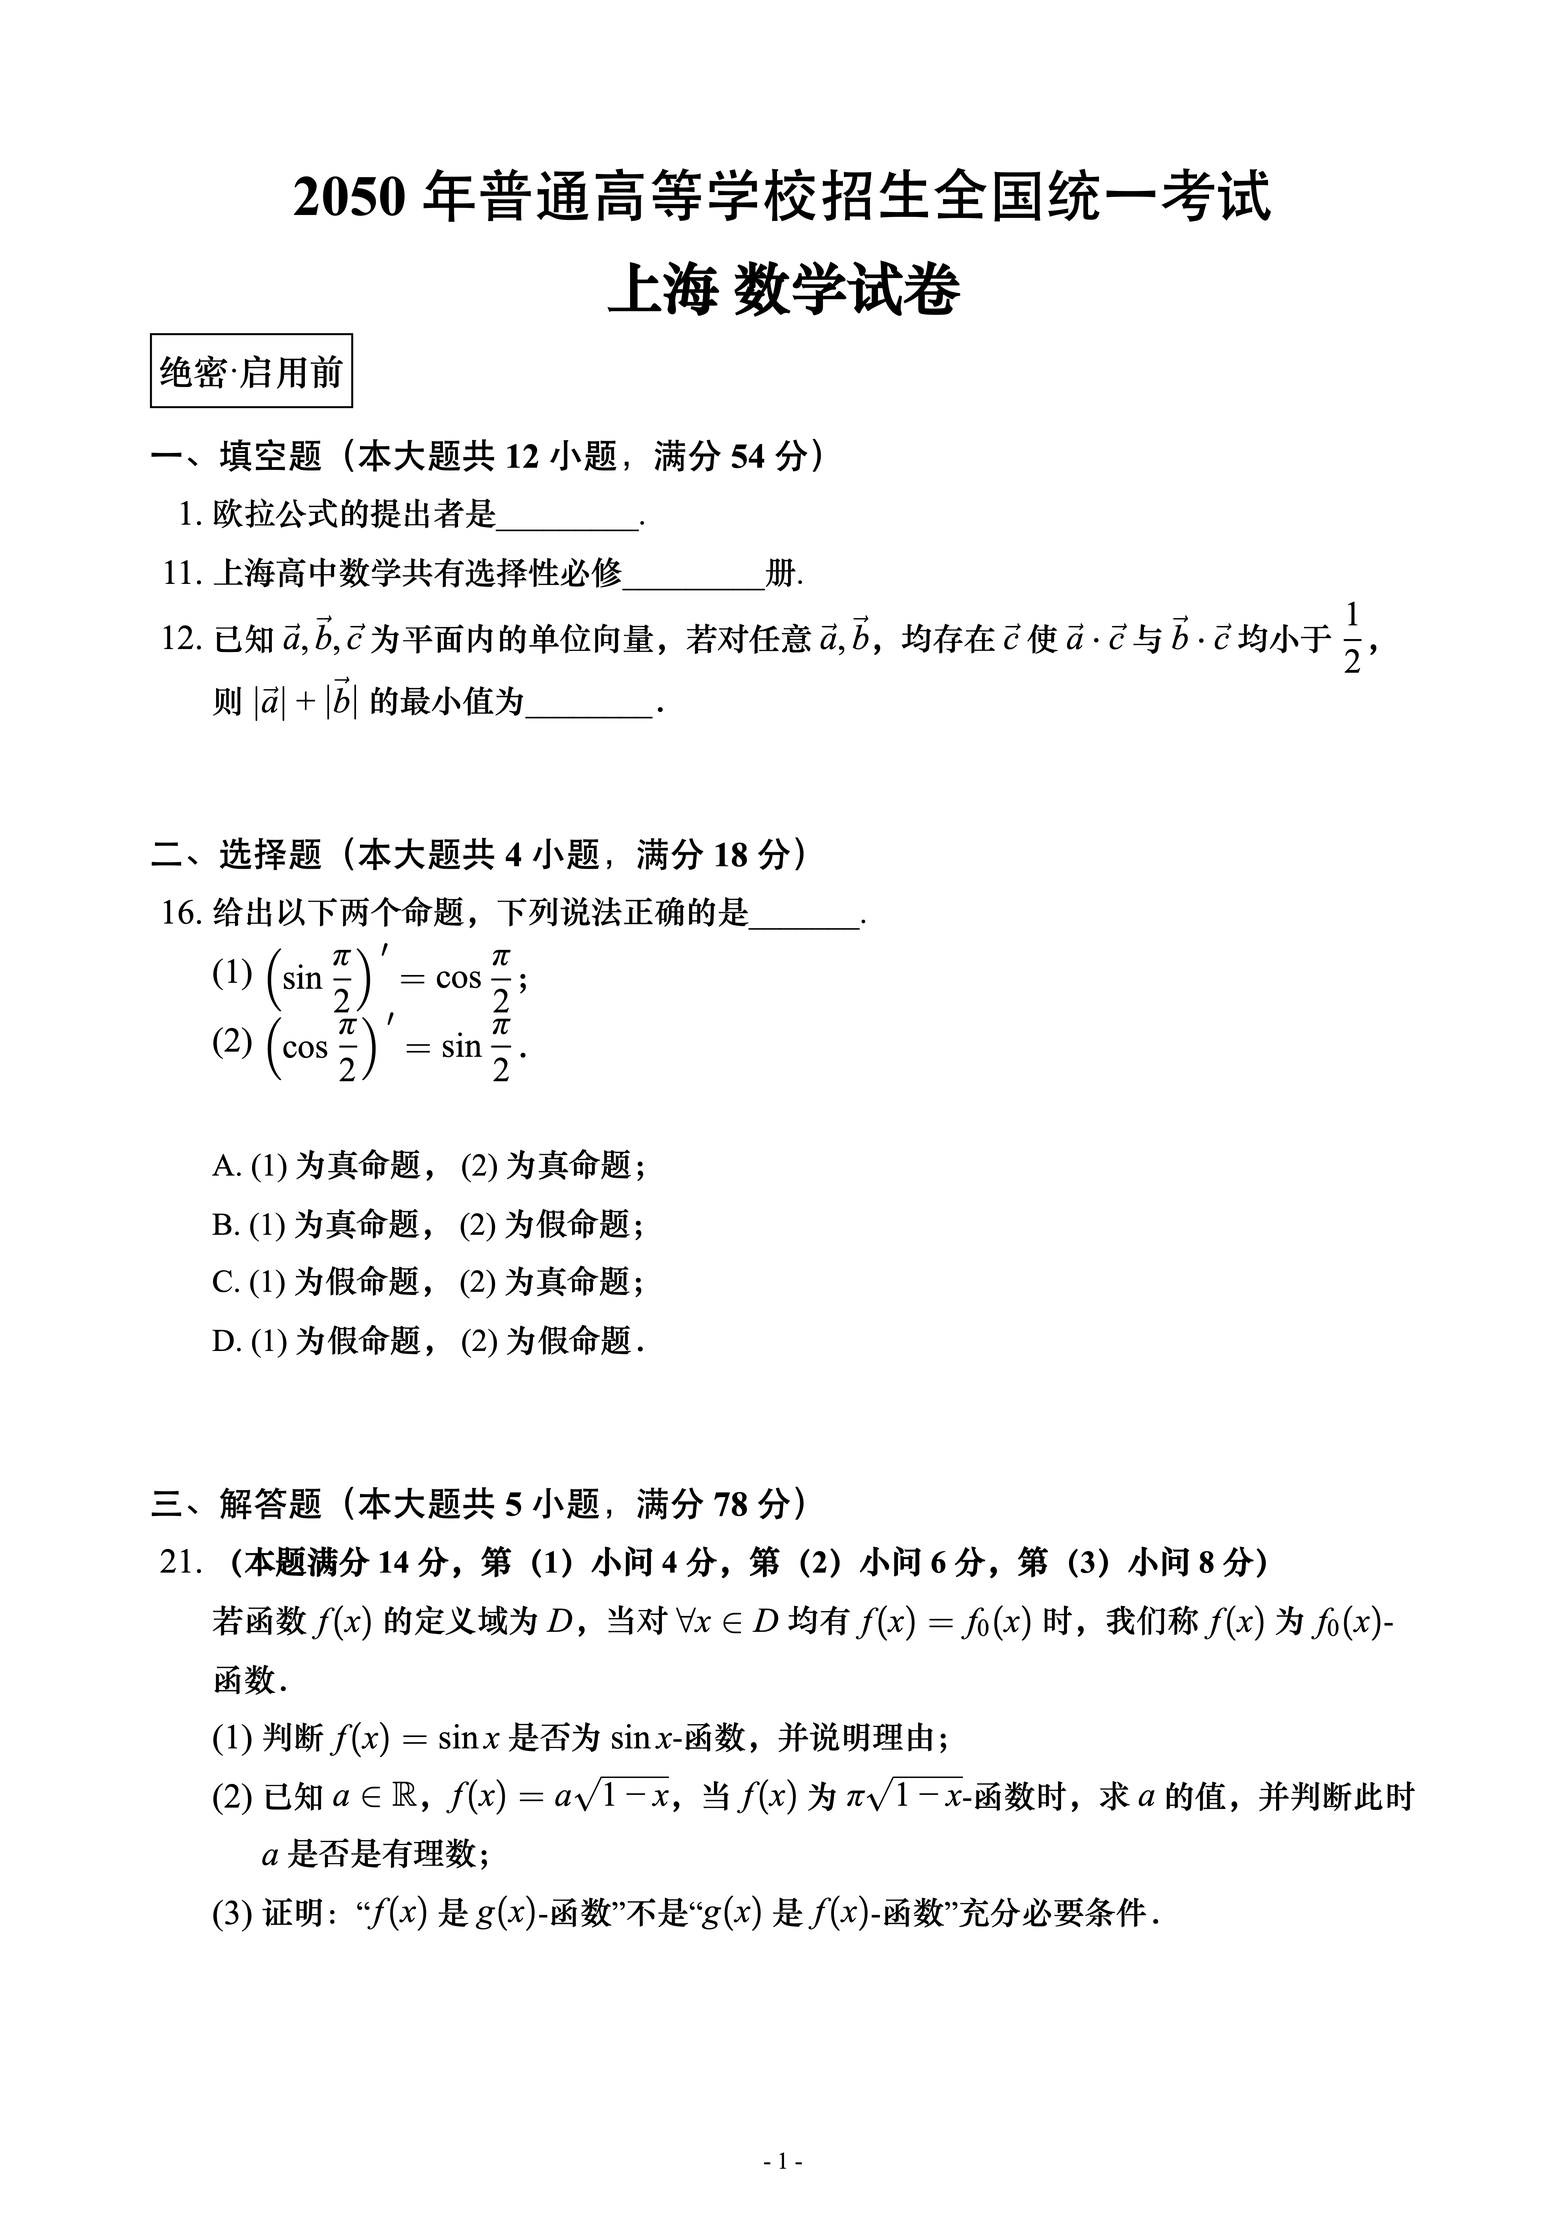
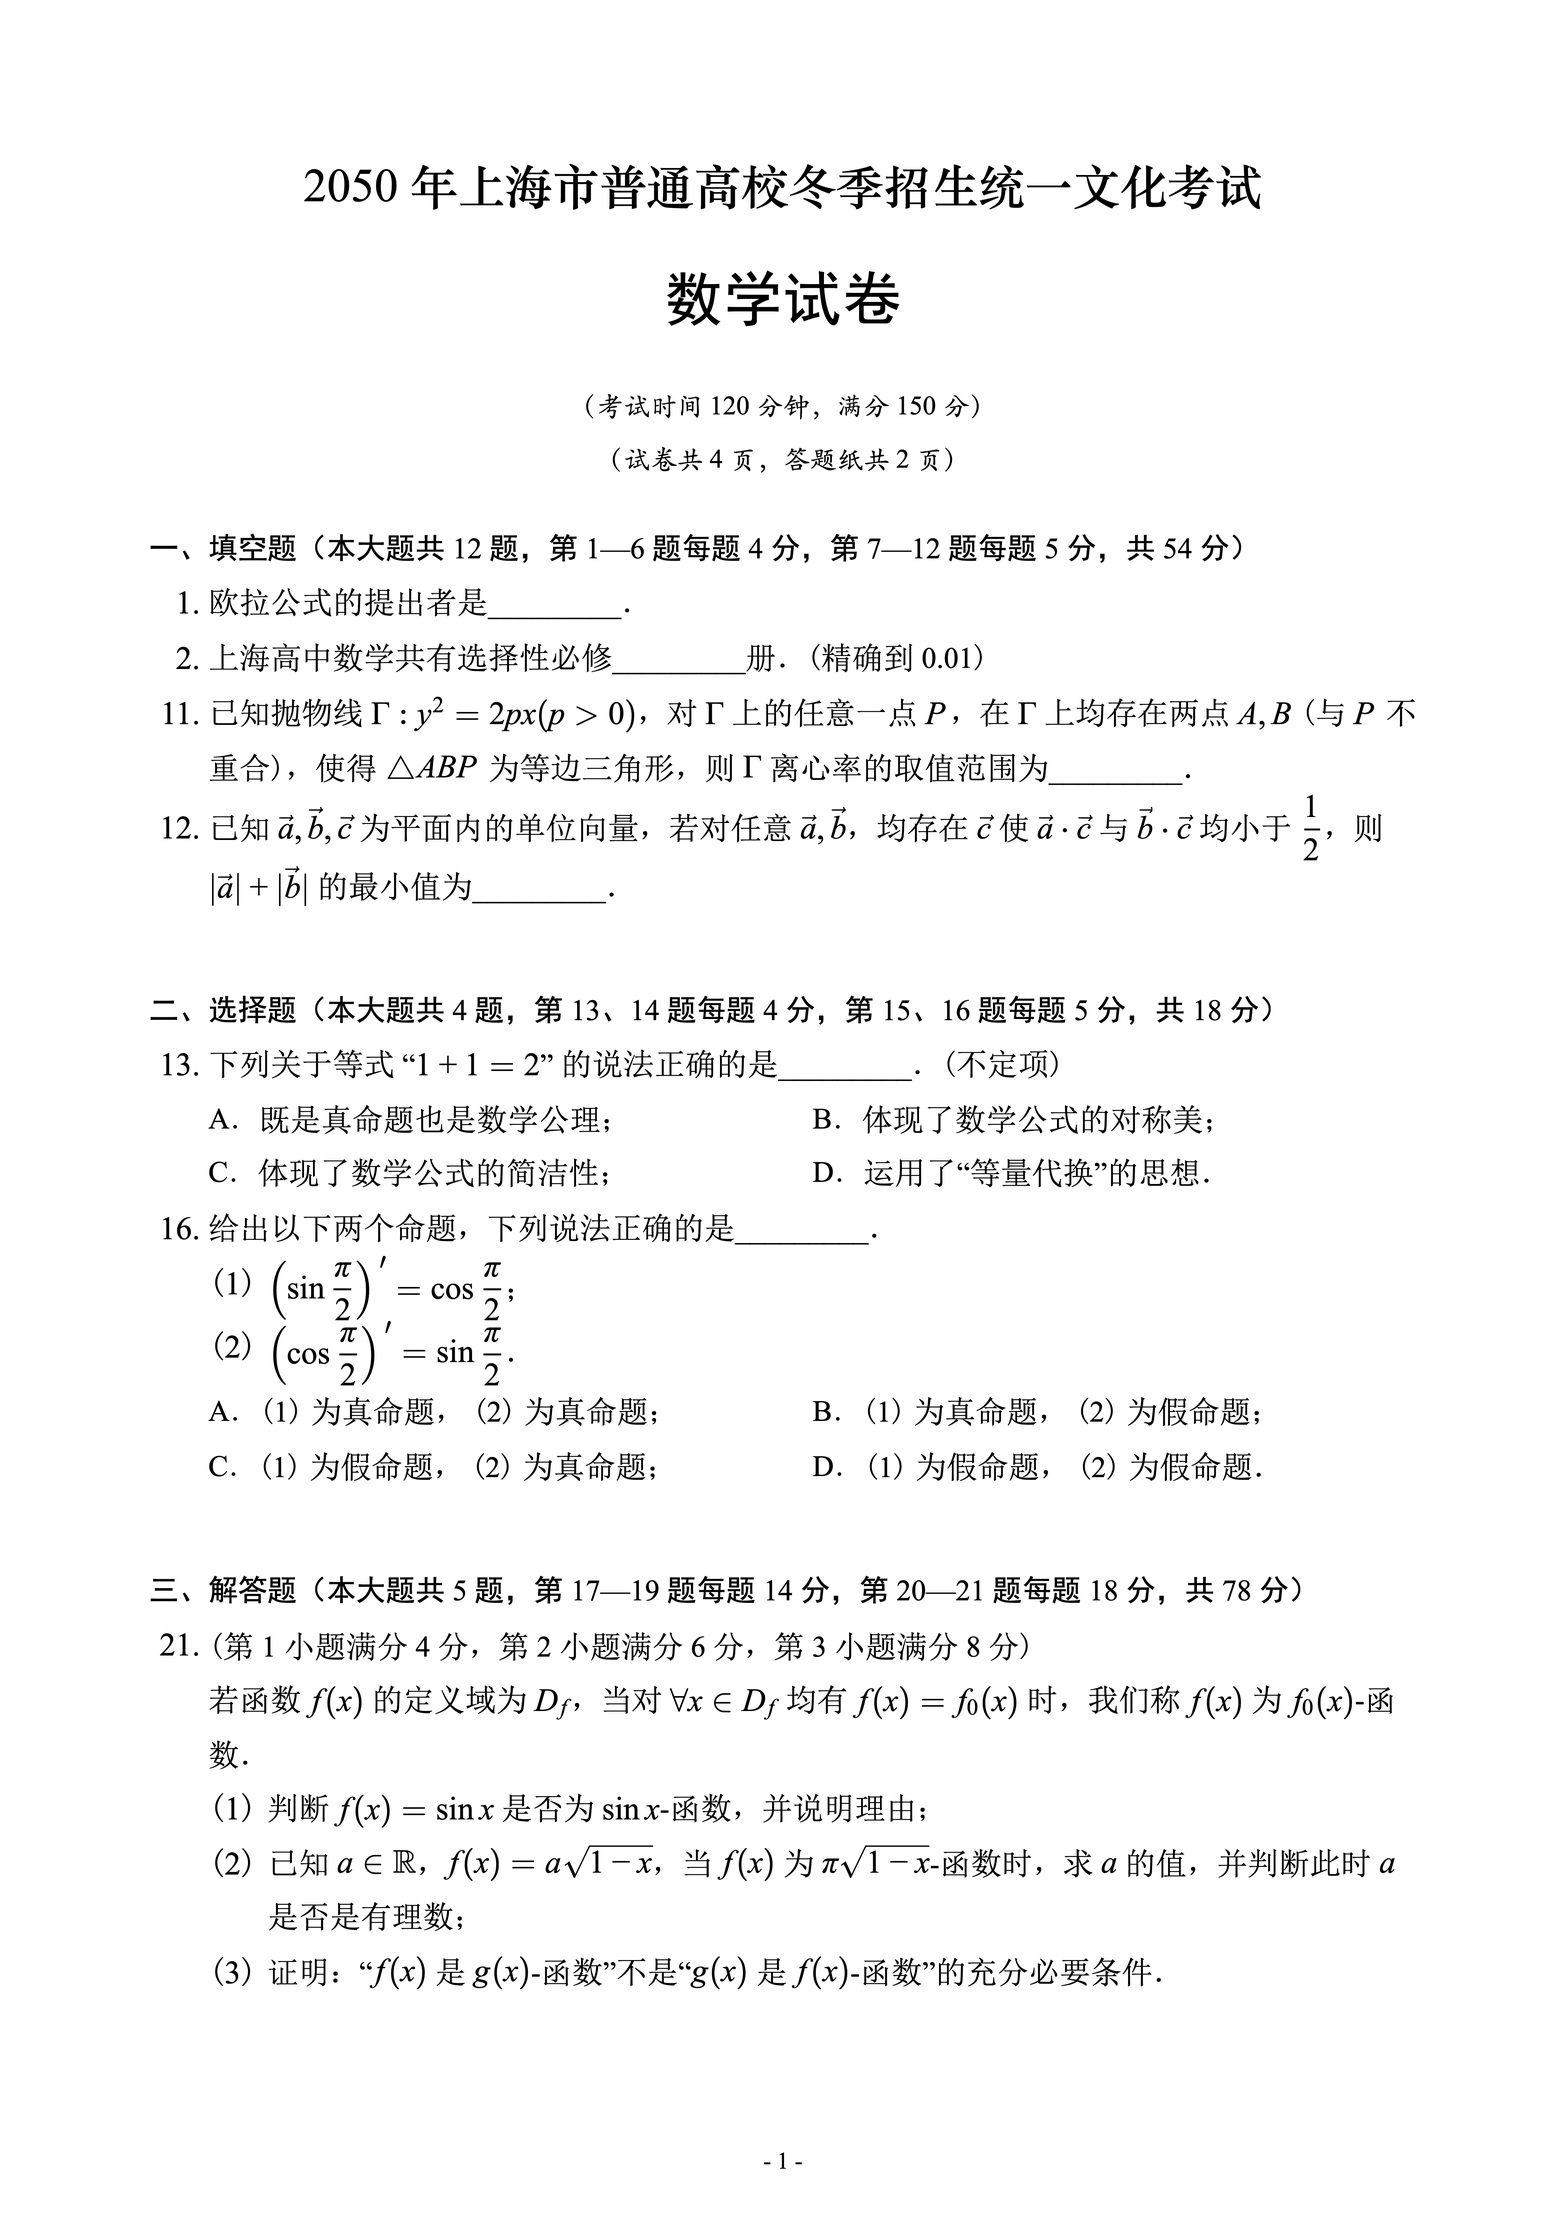
updatee

diff --git a/script.js b/script.js
@@ -65,24 +65,26 @@ createApp({
     components: { MathBlock },
     setup() {
         // 初始示例
-        const defaultText = `#0a 2050 年上海市普通高校冬季招生统一文化考试
+        const defaultText = `#font simsun
+#size 15px
+
+#0a 2050 年上海市普通高校冬季招生统一文化考试
 #0b 数学试卷
 #note （考试时间 120 分钟，满分 150 分）
 #note （试卷共 4 页，答题纸共 2 页）
 ### 一、填空题（本大题共 12 题，第 1—6 题每题 4 分，第 7—12 题每题 5 分，共 54 分）
-1. 欧拉公式的提出者是_________.
-2. 上海高中数学共有选择性必修_________册.
-11. 已知抛物线 $\\Gamma: y^2=2px(p>0)$，对 $\\Gamma$ 上的任意一点 $P$，在 $\\Gamma$ 上均存在两点 $A,B$（与 $P$ 不重合），使得 $\\triangle ABP$ 为等边三角形，则 $\\Gamma$ 离心率的取值范围为________。
-12. 已知 $\\vec{a}, \\vec{b}, \\vec{c}$ 为平面内的单位向量，若对任意 $\\vec{a}, \\vec{b}$，均存在 $\\vec{c}$ 使 $\\vec{a} \\cdot \\vec{c}$ 与 $\\vec{b} \\cdot \\vec{c}$ 均小于 $\\dfrac 1 2$，则 $| \\vec{a} | + | \\vec{b} |$ 的最小值为________。
-
+1. 欧拉公式的提出者是___。
+2. 上海高中数学共有选择性必修___册。(精确到 0.01)
+11. 已知抛物线 $\\Gamma: y^2=2px(p>0)$，对 $\\Gamma$ 上的任意一点 $P$，在 $\\Gamma$ 上均存在两点 $A,B$ (与 $P$ 不重合)，使得 $\\triangle ABP$ 为等边三角形，则 $\\Gamma$ 离心率的取值范围为___。
+12. 已知 $\\vec{a}, \\vec{b}, \\vec{c}$ 为平面内的单位向量，若对任意 $\\vec{a}, \\vec{b}$，均存在 $\\vec{c}$ 使 $\\vec{a} \\cdot \\vec{c}$ 与 $\\vec{b} \\cdot \\vec{c}$ 均小于 $\\dfrac 1 2$，则 $| \\vec{a} | + | \\vec{b} |$ 的最小值为___。
 
 ### 二、选择题（本大题共 4 题，第 13、14 题每题 4 分，第 15、16 题每题 5 分，共 18 分）
-13. 下列关于等式 “$1+1=2$” 的说法正确的是_______.（不定项）
+13. 下列关于等式 “$1+1=2$” 的说法正确的是___。(不定项)
 A. 既是真命题也是数学公理；
 B. 体现了数学公式的对称美；
 C. 体现了数学公式的简洁性；
 D. 运用了“等量代换”的思想。
-16. 给出以下两个命题，下列说法正确的是_______.
+16. 给出以下两个命题，下列说法正确的是___。
 （1）$\\left(\\sin \\dfrac \\pi 2\\right)'= \\cos \\dfrac \\pi 2$；
 （2）$\\left(\\cos \\dfrac \\pi 2\\right)'= \\sin \\dfrac \\pi 2$。
 A. (1) 为真命题， (2) 为真命题；
@@ -92,7 +94,7 @@ D. (1) 为假命题， (2) 为假命题。
 
 ### 三、解答题（本大题共 5 题，第 17—19 题每题 14 分，第 20—21 题每题 18 分，共 78 分）
 
-21. （第 1 小题满分 4 分，第 2 小题满分 6 分，第 3 小题满分 8 分）
+21.  (第 1 小题满分 4 分，第 2 小题满分 6 分，第 3 小题满分 8 分)
 若函数 $f(x)$ 的定义域为 $D_f$，当对 $\\forall x \\in D_f$ 均有 $f(x)=f_0(x)$ 时，我们称 $f(x)$ 为 $f_0(x)$-函数。
 （1）判断 $f(x)=\\sin x$ 是否为 $\\sin x$-函数，并说明理由；
 （2）已知 $a \\in \\mathbb{R}$，$f(x)=a\\sqrt{1-x}$，当 $f(x)$ 为 $\\pi\\sqrt{1-x}$-函数时，求 $a$ 的值，并判断此时 $a$ 是否是有理数；
@@ -114,6 +116,12 @@ D. (1) 为假命题， (2) 为假命题。
             '### ':      { type: 'title3',  render: (content) => `<div class="third-title">${content}</div>` },
         };
 
+        const FONT_CONFIG = {
+            'simsun': { family: 'simsun', offset: '-0.03em', scale: '1.05em' },
+            'zhongsong': { family: '"STZhongsong", serif', offset: '0.045em', scale: '1em' },
+            'shusong': { family: '"STShusong-Z01S", serif', offset: '0.045em', scale: '1em' },
+        }
+
         // --- 解析器 (包含新 Feature) ---
         const parse = () => {
             statusText.value = "解析中...";
@@ -124,6 +132,8 @@ D. (1) 为假命题， (2) 为假命题。
             let current = null;
             let idSeq = 1;
             let optionBuffer = []; // 选择题缓冲区
+            let currentFont = 'zhongsong'; // 字体缓冲区
+            let currentSize = '16px';
 
             const fixFont = (str) => str.replace(/\*\*(.+?)\*\*/g, '<strong>$1</strong>');
 
@@ -131,9 +141,10 @@ D. (1) 为假命题， (2) 为假命题。
             const flushOptions = () => {
                 if (optionBuffer.length > 0) {
                     // 启发式测算：剥除KaTeX标识符后计算最大字符长度
-                    let maxLen = Math.max(...optionBuffer.map(o => o.text.length));
+                    const getVisualLength = s => s.replace(/\$.*?\$/g, "###").replace(/<[^>]+>/g, "").split('').reduce((l, c) => l + (c.charCodeAt(0) > 255 ? 2 : 1), 0);
+                    let maxLen = Math.max(...optionBuffer.map(o => getVisualLength(o.text)));
                     console.log(optionBuffer, "选项最大长度:", maxLen);
-                    let colsClass = maxLen <= 8 ? 'mcq-cols-4' : (maxLen <= 19 ? 'mcq-cols-2' : 'mcq-cols-1');
+                    let colsClass = maxLen <= 18 ? 'mcq-cols-4' : (maxLen <= 30 ? 'mcq-cols-2' : 'mcq-cols-1');
                     
                     let optionsHtml = `<div class="mcq-options ${colsClass}">`;
                     optionBuffer.forEach(opt => {
@@ -157,7 +168,6 @@ D. (1) 为假命题， (2) 为假命题。
                 const content = fixFont(current.rawContent);
                 const config = Object.values(FORMAT_CONFIG).find(c => c.type === current.type);
                 if (config) { // 匹配到特殊格式
-                    console.log("渲染格式:", current.type, content);
                     current.html = config.render(content);
                 } else if (current.type === 'question') { // 题目
                     current.html = `<ol start="${current.number}"><li>${content}</li></ol>`;
@@ -168,9 +178,21 @@ D. (1) 为假命题， (2) 为假命题。
             };
 
             lines.forEach(line => {
-                const trim0 = line.trim();
+                const trim0 = line.trim().replace('___', '_________').replace('(_)', '($\\hspace{0.8cm}$)');
                 // 处理中文字体包裹
                 const trim = trim0.replace(/([\u4e00-\u9fff]+)/g, '<span class="chinese-fix">$1</span>');
+
+                // -1. 解析 meta 信息（字体大小等）
+                // 匹配字体设置
+                if (trim0.startsWith('#font ')) {
+                    currentFont = trim0.substring(6).trim();
+                    return;
+                }
+                // 匹配大小设置
+                if (trim0.startsWith('#size ')) {
+                    currentSize = trim0.substring(6).trim();
+                    return;
+                }
 
                 // 0. 判断是否为选择题选项 (兼容 A. A。A、A．)
                 const mcqMatch = trim0.match(/^([A-D])[.。、．]\s*(.*)/);
@@ -249,6 +271,15 @@ D. (1) 为假命题， (2) 为假命题。
                     }
                 });
             }
+
+            console.log(currentFont, currentSize);
+            if (FONT_CONFIG[currentFont]) {
+                const cfg = FONT_CONFIG[currentFont];
+                document.documentElement.style.setProperty('--paper-font-family', cfg.family);
+                document.documentElement.style.setProperty('--paper-font-vertical-align', cfg.offset);
+                document.documentElement.style.setProperty('--paper-font-scale-size', cfg.scale);
+            }
+            document.documentElement.style.setProperty('--paper-base-size', currentSize);
 
             allBlocks.value = blocks;
             nextTick(layout);

diff --git a/style.css b/style.css
@@ -6,15 +6,23 @@
     --paper-font-scale-size: 1em; /* 字号系数，万一某个字体的字特别大/小之类 */
 }
 
+@font-face {
+    font-family: 'bracket-fix';
+    src: local('simsun');
+    unicode-range: U+0028, U+0029;
+}
+
 /* =========================================
     1. 您的原始样式 (Scope 隔离版 - 未修改)
     ========================================= */
 .paper-style-scope {
-    font-family: Times New Roman, var(--paper-font-family);
+    font-family: 'bracket-fix', Times New Roman, var(--paper-font-family);
     color: #000000;
     line-height: 1.8em;
     word-break: break-all;
-    font-size: 16px;
+    font-size: var(--paper-base-size);
+    line-break: strict;
+    hanging-punctuation: last allow-end;
 }
 
 .paper-style-scope .chinese-fix {
@@ -36,15 +44,15 @@
     content: "(" counter(pp-counter) ")";
     counter-increment: pp-counter;
     position: absolute;
-    left: -25px;
+    left: -30px;
     color: black;
     font-size: 1.1em;
-    font-family: "Times New Roman";
+    font-family: 'bracket-fix', Times New Roman, var(--paper-font-family);
 }
 
 .paper-style-scope li { counter-reset: pp-counter; }
 .paper-style-scope li::marker { font-size: 1.1em; margin-right: 10px; font-family: "Times New Roman"; }
-.paper-style-scope pp { margin-left: 25px; position: relative; display: block; }
+.paper-style-scope pp { margin-left: 30px; position: relative; display: block; }
 .paper-style-scope ol { list-style: decimal; padding-left: 2em; margin: 0; }
 .paper-style-scope ul { list-style: disc; padding-left: 2em; margin: 0; }
 .paper-style-scope strong { font-weight: bold; }
@@ -102,7 +110,7 @@
     display: flex;
     justify-content: center;
     align-items: center;
-    font-family: "Times New Roman", "Kaiti SC", "STKaiti", serif;
+    font-family: "Times New Roman", "STKaiti", "Kaiti SC", serif;
     font-size: 0.9em;
     /* color: #666; 备注通常颜色稍浅 */
     text-align: center;

diff --git a/index.html b/index.html
@@ -19,7 +19,7 @@
 <div id="app" class="h-screen flex flex-col">
     <header id="app-header" class="h-14 bg-white border-b flex items-center justify-between px-6 shrink-0 z-50">
         <div class="font-bold text-gray-700">
-            <i class="fa-solid fa-check-double text-blue-600 mr-2"></i>MathPaper v1.0
+            <i class="fa-solid fa-check-double text-blue-600 mr-2"></i>MathPaper v1.5
         </div>
         <div class="text-sm" :class="statusColor">
             <i class="fa-solid fa-circle text-[10px] mr-1"></i> {{ statusText }}

diff --git a/README.md b/README.md
@@ -1,6 +1,13 @@
 # 📐 MathPaper - 智能数学试卷排版系统
 
-（Almost everything by Gemini, except idea）
+（Almost ~~everything~~50% by Gemini, except idea）
+
+【2026.3.7 重大更新】重构代码，增加语法，更加贴合上海高考的排版同时也支持一定程度的风格个性化。
+
+排版工作浩瀚复杂，不少功能实现难度大，如同不断贴补丁；目前版本做到与高考风格相似度 90% 左右，但受限于时间精力，不与高考完全一致，且可能带有一些本项目作者的排版习惯倾向而未向“完全复刻”妥协。
+
+## 👀 排版效果预览
+![](preview.png)
 
 ![](screenshot.png)
 
@@ -10,18 +17,19 @@ MathPaper 是一个高效、所见即所得 (WYSIWYG) 的单文件 Web 排版工
 
 ## ✨ 核心特性
 
-* **⚡ 稳定高效的 KaTeX 渲染 (v4.0)：** 采用 Vue 组件隔离技术，完美解决了 KaTeX 直接操作 DOM 与 Vue 虚拟 DOM 之间的冲突，确保系统在复杂输入和频繁操作下仍保持稳定。左侧编辑后，右侧公式实时更新。
+* **⚡ 稳定高效的 KaTeX 渲染：** 采用 Vue 组件隔离技术，完美解决了 KaTeX 直接操作 DOM 与 Vue 虚拟 DOM 之间的冲突，确保系统在复杂输入和频繁操作下仍保持稳定。左侧编辑后，右侧公式实时更新。
 * **📃 智能分页与布局：** 实时监测内容高度，自动进行 A4 纸张分页。
     * **拖拽调整：** 拖动题目底部的蓝色手柄，精确控制题目下方留白。
     * **强制分页：** **双击**任何题目块，可在该题目之前插入强制分页符。
-* **🖋 智能输入解析 (v4.0)：** 简化您的输入，系统自动识别并转换标签：
+* **🖋 智能输入解析：** 简化您的输入，系统自动识别并转换标签：
     * `# 试卷标题`：自动识别为试卷标题。
     * `## 方块记号`：转化为带边框的小标题。
     * `### 小标题`：转化为黑体的小标题，一般用于大题前的文字说明。
     * `1. 题目内容`：自动识别为大题号。
     * `(1) 小题内容` 或 `（1）小题内容`：自动识别为大题号下的小题号。
+    * 在 20260307 更新后，添加了更多支持的语法。
 * **🖨 完美打印输出：** 专为打印和 PDF 导出优化。
-* **🎨 风格完美复刻：** 通过对 KaTeX 进行神奇 CSS 微操，复刻接近上海高考风格的排版（华文中宋 + Times New Roman）
+* **🎨 风格完美复刻：** 通过对 KaTeX 进行神奇 CSS 微操，复刻接近上海高考风格的排版。
 
 ## 🛠 技术栈
 
@@ -35,7 +43,3 @@ MathPaper 是一个高效、所见即所得 (WYSIWYG) 的单文件 Web 排版工
 2.  **打开浏览器：** 在 Chrome 或 Edge 中直接打开此 HTML 文件。
 3.  **开始编辑：** 在左侧输入框中粘贴您的试卷内容。
 4.  **调整与导出：** 在右侧预览区进行拖拽和双击微调，满意后点击 **"打印 / 导出 PDF"** 按钮即可获得成品。
-
-## 👀 排版预览
-
-![](preview.png)
